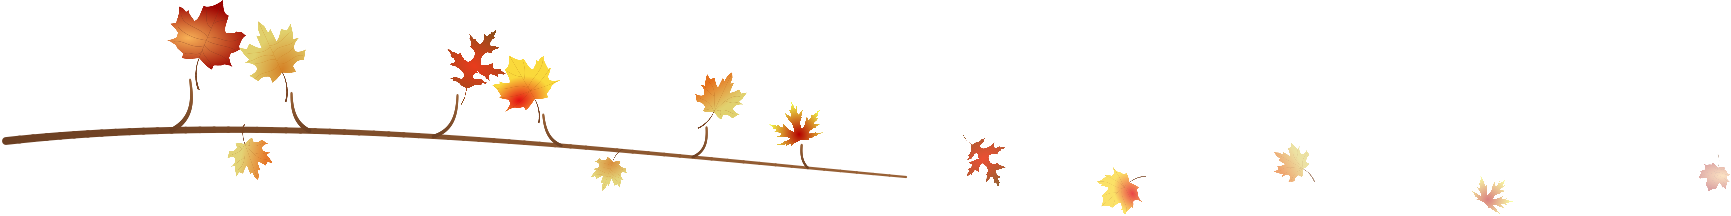
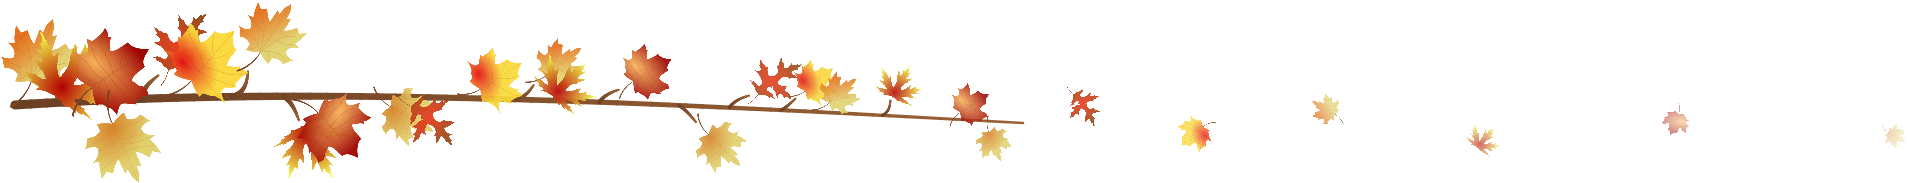
篝火橙主题窗口点缀改版：细枝贴着外框线、叶片顺枝斜长且更大更密，左上叶簇加大；右下角落叶改为沿下边缘铺开，篝火底下加窗内暖光，火星贴着右边框上飘

diff --git a/dstools/qt/ornaments.py b/dstools/qt/ornaments.py
@@ -42,15 +42,15 @@ class Sprite:
 
 _SPRITES: dict[str, tuple[Sprite, ...]] = {
     "campfire": (
-        # 从左上角沿上边框向右、沿左边框向下各一根细枝挂着秋叶，末端收向外框线，落叶渐稀渐淡
-        Sprite("campfire_spray_right.png", 0, 0, 286.5, -21, 72),
-        Sprite("campfire_spray_down.png", 0, 0, -23, 226, 456),
-        # 左上主角：几片大叶压在拐角上，后创建的小窗叠在细枝上面
-        Sprite("campfire_cluster.png", 0, 0, 8.5, 2.5, 77),
-        # 右上呼应：拐角一片大枫叶，沿上边往左、沿右边往下各一小段细枝
-        Sprite("campfire_spray_corner.png", 1, 0, -107.5, 59.5, 209),
-        # 右下收尾：篝火跨在拐角上，火星沿右边框往上飘，下边缘往左散几片落叶；左下角留白
-        Sprite("campfire_fire.png", 1, 1, -108.5, -157, 350),
+        # 从左上角贴着上边框向右、贴着左边框向下各一根挂满秋叶的细枝，末端收到外框线上，落叶渐稀渐淡
+        Sprite("campfire_spray_right.png", 0, 0, 307, -9.5, 61),
+        Sprite("campfire_spray_down.png", 0, 0, -11, 242, 500),
+        # 左上主角：一簇大叶压在拐角上，后创建的小窗叠在细枝上面
+        Sprite("campfire_cluster.png", 0, 0, 8, 1.5, 93),
+        # 右上呼应：拐角一片大枫叶，沿上边往左、沿右边往下各一段挂叶细枝
+        Sprite("campfire_spray_corner.png", 1, 0, -153.5, 94.5, 253),
+        # 右下收尾：拐角铺一圈落叶，篝火跨在拐角上、底下一层暖光，火星贴着右边框往上飘；左下角留白
+        Sprite("campfire_fire.png", 1, 1, -147, -150.5, 337),
     ),
     "sakura": (
         # 从左上角沿上边框向右、沿左边框向下各一串花朵、花蕾，粉色细茎相连，末端收向外框线、花瓣渐稀渐淡
